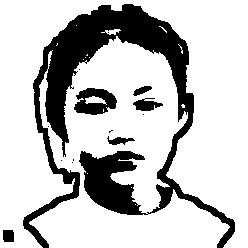
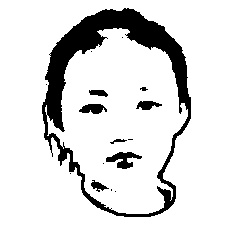
17.10.11

diff --git a/faceFeature/partitionMethod.py b/faceFeature/partitionMethod.py
@@ -1,6 +1,8 @@
 # encoding:utf-8
 import cv2
 import numpy as np
+import math
+#检测人脸
 def detectFaces(srcImg):
     img = srcImg.copy()
     #print 1
@@ -11,7 +13,7 @@ def detectFaces(srcImg):
         gray = img
     faces = face_cascade.detectMultiScale(gray, 1.3, 5)#1.3and5  counts to the result of face recognation
     return faces
-
+#在人脸的基础上检测眼睛
 def detectEyes(srcImg):
     src = srcImg.copy()
     faces = detectFaces(src)
@@ -50,22 +52,24 @@ def detectEyes(srcImg):
             cv2.rectangle(src, (temp[0], temp[1]), (temp[0] + temp[2], temp[1] + temp[3]), (0, 255, 0), 2)
     #cv2.imshow("eye",src)
     return faces,result
-
+#皮肤检测。。。。。实践不行
 def skinDetect(srcImg):
     img = srcImg.copy()
     img = cv2.cvtColor(img,cv2.COLOR_BGR2YCrCb)
     Y, Cr, Cb = cv2.split(img)
-    result = np.zeros(img.shape, np.uint8)
     sp = img.shape
+    result = np.zeros((sp[0],sp[1]), np.uint8)
     #cr 77:127 cb 133:173
     for i in range(sp[0]):
         for j in range(sp[1]):
-            if Cr[i,j]>=77 and Cr[i,j]<=127 and Cb[i,j]>=133 and Cb[i,j]<=173:
+            if img[i,j,1]>=77 and img[i,j,1]<=127 and img[i,j,2] >= 133 and img[i,j,2] <= 173:
                 result[i,j] = 255;
             else:
                 result[i,j] = 0;
-    return result
 
+    cv2.imshow("skin",result)
+    return result
+#肤色检测
 def skinModel(srcImg):
     img = srcImg.copy()
     rows, cols, channels = img.shape
@@ -136,7 +140,7 @@ def skinModel(srcImg):
                 Cb = (Cb - CbCenter) * Wcb / WCb + 108
                 ########################################################################
             # skin color detection
-            if Cb > 77 and Cb < 127 and Cr > 133 and Cr < 173:
+            if Cb >= 79 and Cb <= 124 and Cr >= 138 and Cr <= 170:
                 skin = 1
                 # print 'Skin detected!'
             if 0 == skin:
@@ -145,19 +149,24 @@ def skinModel(srcImg):
                 imgSkin[r,c] = 255
 
                 # display original image and skin image
+    kernel = cv2.getStructuringElement(cv2.MORPH_RECT, (3, 3))
+    imgSkin = cv2.dilate(imgSkin, kernel)
+    imgSkin = cv2.erode(imgSkin,kernel)
+    imgSkin = cv2.dilate(imgSkin,kernel)
+    imgSkin = cv2.erode(imgSkin,kernel)
     cv2.imshow("skin",imgSkin)
     return imgSkin
-
+#通过漫水填充去除背景
 def removeBackground(srcImg):
     img = srcImg.copy()
     sp = img.shape
     mask = np.zeros((img.shape[0]+2,img.shape[1]+2),np.uint8)
-    cv2.floodFill(img, mask, (5, 5), (255, 255, 255), (5, 5, 5), (5, 5, 5), 8)
+    cv2.floodFill(img, mask, (5, 5), (255, 255, 255), (3, 3, 3), (3, 3, 3), 8)
     #mask = np.zeros((img.shape[0]+2,img.shape[1]+2),np.uint8)
     #cv2.floodFill(img, mask, (5,img.shape[0]-5), (255, 255, 255), (3, 3, 3), (3, 3, 3), 8)
     cv2.imshow("floodfill", img)
     return img
-
+#通过人脸检测裁剪人脸
 def tailorImg(img,faces):
     if len(faces) == 1:
         for i,(x,y,w,h) in enumerate(faces):
@@ -169,7 +178,7 @@ def tailorImg(img,faces):
             new_img = img[new_y:new_y+new_h,new_x:new_x+new_w]
             #cv2.imshow("new_img",new_img)
             return new_img
-
+#计算肤色部分的平均亮度
 def meanBrightness(imgSKIN,imgGRAY):
     sp = imgSKIN.shape
     print(sp)
@@ -180,17 +189,16 @@ def meanBrightness(imgSKIN,imgGRAY):
            if imgSKIN[i,j] >100:
                brightness += imgGRAY[i,j]
                count +=1
-    return brightness/count
-
+    if count !=0:
+        return brightness/count
+    else:
+        return 0
+#轮廓完善
 def skeletonComplete(imgResult,imgSKIN):
     kernel = cv2.getStructuringElement(cv2.MORPH_RECT, (3, 3))
-    imgSKIN = cv2.erode(imgSKIN, kernel)
-    imgSKIN = cv2.GaussianBlur(imgSKIN, (7, 7), 0)  # 高斯平滑处理原图像降噪
-    imgSKIN = cv2.dilate(imgSKIN, kernel)
-    ret,new_skin = cv2.threshold(imgSKIN,100,255,cv2.THRESH_BINARY_INV)
-    new_skin = RemoveSmallRegion(new_skin,200,1,1)
-    new_skin = RemoveSmallRegion(new_skin,200,0,1)
-    cv2.imshow("process_skin",new_skin)
+    new_skin = imgSKIN
+    new_skin = RemoveSmallRegion(new_skin,500,0,1)
+    cv2.imshow("new_skin",new_skin)
     #binary, contours, hierarchy = cv2.findContours(new_skin, cv2.RETR_TREE, cv2.CHAIN_APPROX_NONE)
     #cv2.drawContours(binary, contours, -1, (0, 0, 255), 3)
     #cv2.imshow("inver",binary)
@@ -199,31 +207,45 @@ def skeletonComplete(imgResult,imgSKIN):
     ret,skeleton = cv2.threshold(canny,100,255,cv2.THRESH_BINARY_INV)
     kernel = cv2.getStructuringElement(cv2.MORPH_RECT, (3, 3))
     skeleton = cv2.erode(skeleton, kernel)
-    skeleton = cv2.erode(skeleton, kernel)
+    #skeleton = cv2.erode(skeleton, kernel)
     result = cv2.bitwise_and(skeleton,imgResult)
     cv2.imshow("result",result)
     return result
-
+#对图片进行处理
 def processImg(img):
     img = cv2.resize(img,(int(img.shape[1]/2) ,int(img.shape[0]/2)),interpolation=cv2.INTER_CUBIC)
     cv2.imshow("img",img)
     imgFront = removeBackground(img)
     #眼睛和人脸检测
     faces,eyes = detectEyes(img)
+    temp = img.copy()
+    mask = np.zeros((img.shape[0] + 2, img.shape[1] + 2), np.uint8)
+
     imgGray = cv2.cvtColor(img,cv2.COLOR_BGR2GRAY)
     #获取到的人物头像前景图
     imgFace = tailorImg(imgFront,faces)
     #获取imgFace的肤色图
     imgFace_Skin = skinModel(imgFace)
+    ####################################################
+    kernel = cv2.getStructuringElement(cv2.MORPH_RECT, (3, 3))
+    skinTemp = cv2.erode(imgFace_Skin, kernel)
+    skinTemp = cv2.dilate(skinTemp, kernel)
+    #harlan
+    imgFace_Skin = RemoveSmallRegion(skinTemp, 2000, 1, 1)
+    cv2.imshow("skinTemp", imgFace_Skin)
+
+
+
     imgFace_Gray = cv2.cvtColor(imgFace,cv2.COLOR_BGR2GRAY)
     #获取到作阈值化的阈值
-    theta = meanBrightness(imgSKIN=imgFace_Skin,imgGRAY=imgFace_Gray)
+    #theta = meanBrightness(imgSKIN=imgFace_Skin,imgGRAY=imgFace_Gray)
     #进行阈值化
     cv2.imshow("imgFace_gray",imgFace_Gray)
-    ret,imgFace_thresh = cv2.threshold(imgFace_Gray,0.7*int(theta),255,cv2.THRESH_BINARY)
+    imgFace_thresh,newSkin = divisionThreshold(imgSKIN=imgFace_Skin,imgFace=imgFace_Gray)
+    #ret,imgFace_thresh = cv2.threshold(imgFace_Gray,0.7*int(theta),255,cv2.THRESH_BINARY)
     cv2.imshow("face_threshold",imgFace_thresh)
     #轮廓补充
-    result = skeletonComplete(imgFace_thresh,imgSKIN=imgFace_Skin)
+    result = skeletonComplete(imgFace_thresh,imgSKIN=newSkin)
     return result
 
 def RemoveSmallRegion(src,AreaLimit,CheckMode,NeiborMode):
@@ -300,11 +322,138 @@ def RemoveSmallRegion(src,AreaLimit,CheckMode,NeiborMode):
 
     return dst
 
+def RemoveSelectRegion(src,AreaHigh,AreaLow,CheckMode,NeiborMode):
+    RemoveCount = 0
+    # 新建一幅标签图像初始化为0像素点，为了记录每个像素点检验状态的标签，0代表未检查，1代表正在检查, 2代表检查不合格（需要反转颜色），3代表检查合格或不需检查
+    # 初始化的图像全部为0，未检查
+    PointLabel = np.zeros(src.shape,np.uint8)
+    dst = np.zeros(src.shape, np.uint8)
+    sp = src.shape
+    if(CheckMode == 1):#去除小连通区域的白色点,除去白色的
+        print("去除小连通域")
+        for i in range(sp[0]):
+            for j in range(sp[1]):
+                if src[i,j]<10:
+                    PointLabel[i,j] = 3#将背景黑色点标记为合格，像素为3
+    else: #除去黑色的
+        print("去除孔洞")
+        for i in range(sp[0]):
+            for j in range(sp[1]):
+                if src[i,j]>10:
+                    PointLabel[i,j] = 3#如果原图是白色区域，标记为合格，像素为3
+    NeiborPos = [] #将邻域压进容器
+    NeiborPos.append((-1,0))
+    NeiborPos.append((1, 0))
+    NeiborPos.append((0, -1))
+    NeiborPos.append((0, 1))
+    if NeiborMode ==1:
+        print("Neighbor mode: 8邻域.")
+        NeiborPos.append((-1, -1))
+        NeiborPos.append((-1, 1))
+        NeiborPos.append((1, -1))
+        NeiborPos.append((1, 1))
+    else:
+        print("Neighbor mode: 4邻域.")
+    NeihborCount = 4+4*NeiborMode;
+    CurrX = 0
+    CurrY =0
+    for i in range(sp[0]):
+        for j in range(sp[1]):
+            if PointLabel[i,j] == 0:
+                GrowBuffer = []
+                GrowBuffer.append((i,j))
+                PointLabel[i,j] = 1
+                CheckResult = 0
+                #在这里说一下，python的for循环有点奇葩，就是范围是静态的，第一次获取到范围值后就不会改变了
+                z=0
+                while z<len(GrowBuffer):
+                    for q in range(NeihborCount):
+                        CurrX = GrowBuffer[z][0]+NeiborPos[q][0]
+                        CurrY = GrowBuffer[z][1]+NeiborPos[q][1]
+                        if CurrX >=0 and CurrX < sp[0] and CurrY >=0 and CurrY<sp[1]:
+                            if PointLabel[CurrX,CurrY] == 0:
+                                GrowBuffer.append((CurrX,CurrY))
+                                PointLabel[CurrX,CurrY] = 1
+                    z += 1
+                #对整个连通域检查完
+                if len(GrowBuffer)> AreaHigh or len(GrowBuffer) < AreaLow:
+                    CheckResult = 2
+                else:
+                    CheckResult = 1
+                    RemoveCount +=1
+
+                for z in range(len(GrowBuffer)):
+                    CurrX = GrowBuffer[z][0]
+                    CurrY = GrowBuffer[z][1]
+                    PointLabel[CurrX,CurrY] += CheckResult
+    CheckMode = 255*(1-CheckMode)
+    for i in range(sp[0]):
+        for j in range(sp[1]):
+            if PointLabel[i,j] == 2:
+                dst[i,j] = CheckMode
+            if PointLabel[i,j] == 3:
+                dst[i,j] = src[i,j]
+
+    return dst
+
+def myThreshold(imgGray,imgSkin,thresh):
+    sp =  imgGray.shape
+    dst = imgGray.copy()
+    for i in range(sp[0]):
+        for j in range(sp[1]):
+            if imgSkin[i,j] >100:
+                if imgGray[i,j]>thresh:
+                    dst[i,j] = 255
+                else:
+                    dst[i,j] = 0
+    return dst
 
 
-if __name__ == '__main__':
+def divisionThreshold(imgSKIN,imgFace):
+    theta = meanBrightness(imgSKIN=imgSKIN, imgGRAY=imgFace)
+    divisionCount = 3
+    #初始化数组大小
+    imgSegment = [None] * divisionCount
+    imgSkinSegment = [None] * divisionCount
+    for i in range(len(imgSegment)):
+        imgSegment[i] = [0] * divisionCount
+        imgSkinSegment[i] = [0] * divisionCount
+    sp = imgSKIN.shape
+    new_w = math.floor(sp[1]/divisionCount)
+    new_h = math.floor(sp[0]/divisionCount)
+    dst = imgSKIN.copy()
+    dst = dst[0:new_h*divisionCount,0:new_w*divisionCount]
+    newSkin = imgSKIN[0:new_h*divisionCount,0:new_w*divisionCount]
+    for i in range(divisionCount):
+        for j in range(divisionCount):
+            imgSegment[i][j] = imgFace[i*new_h:(i+1)*new_h,j*new_w:(j+1)*new_w]
+            imgSkinSegment[i][j] = imgSKIN[i*new_h:(i+1)*new_h,j*new_w:(j+1)*new_w]
+            alpha = meanBrightness(imgSKIN=imgSkinSegment[i][j],imgGRAY=imgSegment[i][j])
+
+            if alpha !=0:
+                thresh = min(alpha,theta)
+                imgSegment[i][j] = myThreshold(imgSegment[i][j],imgSkinSegment[i][j],0.65*thresh)
+    for i in range(divisionCount):
+        for j in range(divisionCount):
+            dst[i*new_h:(i+1)*new_h,j*new_w:(j+1)*new_w]=imgSegment[i][j]
+    ret,dst = cv2.threshold(dst,100,255,cv2.THRESH_BINARY)
+    return dst,newSkin
+
+def unitTest():
+    img = cv2.imread("img/13.jpg",1)
+    dst = processImg(img)
+    #dst = RemoveSelectRegion(dst,1000,30,1,1)
+    cv2.imshow("result",dst)
+
+def createResult():
     i = 1
-    img = cv2.imread("img/9.jpg",1)
-
-    processImg(img)
+    while i < 16:
+        img = cv2.imread("img/" + str(i) + ".jpg", 1)
+        dst = processImg(img)
+        dst = RemoveSmallRegion(dst, 10, 1, 1)
+        cv2.imwrite("result/" + str(i) + ".jpg", dst)
+        i = i + 1
+if __name__ == '__main__':
+    unitTest()
     cv2.waitKey(0)
+

diff --git a/faceFeature/pythonForTest.py b/faceFeature/pythonForTest.py
@@ -1,10 +1,14 @@
 import cv2
+import math
+
+img = cv2.imread("img/1.jpg",1)
 
 
-temp = []
-temp.append((1,2))
-temp.append((3,4))
-print(temp[0])
-temp.remove((1,2))
-print(temp)
+sp = img.shape
+print(sp)
+ycrcb = cv2.cvtColor(img,cv2.COLOR_BGR2YCrCb)
+print(img[0,0],ycrcb[0,0])
+print(img[0,0,0],ycrcb[0,0,0])
+
+
 cv2.waitKey(0)
